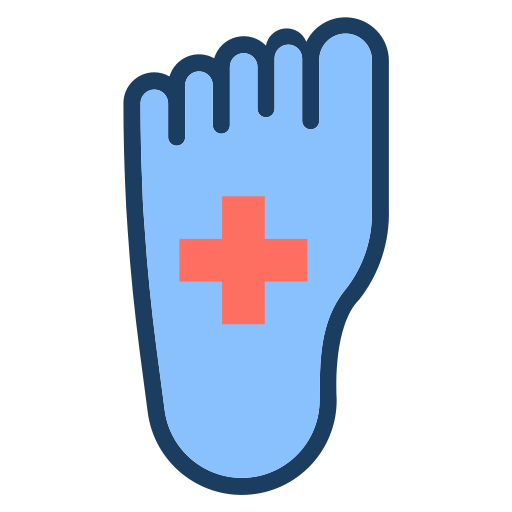
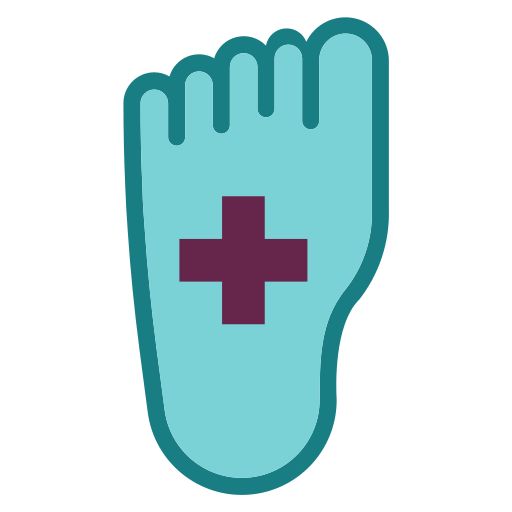
UI updates

diff --git a/docs/index.html b/docs/index.html
@@ -2,10 +2,10 @@
 <html lang="en">
   <head>
     <title>Recovery Path</title>
-    <link rel="manifest" href="/manifest.json">
-    <meta name="viewport" content="width=device-width, initial-scale=1.0">
+    <link rel="manifest" href="/manifest.json" />
+    <meta name="viewport" content="width=device-width, initial-scale=1.0" />
 
-    <meta name="theme-color" content="#1a3d60"/>
+    <meta name="theme-color" content="#1a3d60" />
 
     <link rel="icon" href="./footprint.svg" type="image/svg+xml" />
     <link rel="stylesheet" type="text/css" href="index.css" />
@@ -18,62 +18,65 @@
   </head>
 
   <body>
-
     <h1>Recovery Path</h1>
 
     <div class="inputs">
       <div class="input">
         <h2>Previous</h2>
-        <label for="length1" class="length">
-          Length (cm)
-          <input name="length1" type="number" pattern="[0-9]*" inputmode="decimal" id="length1" oninput="calculate()" />
-        </label>
+        <label for="length1-label" class="length-label">Length (cm)</label>
+        <input
+          class="length"
+          name="length1"
+          type="number"
+          pattern="[0-9]*"
+          inputmode="decimal"
+          id="length1"
+          oninput="calculate()"
+        />
 
         <span class="x">&#10005;</span>
-        <label for="width1" class="width">
-          Width (cm)
-          <input
-            name="width1"
-            type="number"
-            pattern="[0-9]*"
-            inputmode="decimal"
-            id="width1"
-            class="width"
-            oninput="calculate()"
-          />
-        </label>
-        <hr />
-        <p id="area1" class="area">cm&sup2;</p>
+        <label for="width1-label" class="width-label">Width (cm)</label>
+        <input class="width" type="number" pattern="[0-9]*" inputmode="decimal" id="width1" oninput="calculate()" />
+
+        <span class="equals">=</span>
+        <label class="area-label">Area (cm&sup1;)</label>
+        <p class="area" id="area1"></p>
       </div>
 
       <div class="input">
         <h2>Current</h2>
-        <label for="length2" class="length">
-          Length (cm)
-          <input name="length2" type="number" pattern="[0-9]*" inputmode="decimal" id="length2" oninput="calculate()" />
-        </label>
+        <label for="length2-label" class="length-label">Length (cm)</label>
+        <input
+          class="length"
+          name="length2"
+          type="number"
+          pattern="[0-9]*"
+          inputmode="decimal"
+          id="length2"
+          oninput="calculate()"
+        />
+
         <span class="x">&#10005;</span>
-        <label for="width2" class="width">
-          Width (cm)
-          <input type="number" pattern="[0-9]*" inputmode="decimal" id="width2" oninput="calculate()" />
-        </label>
-        <hr />
-        <p id="area2" class="area">cm&sup2;</p>
+        <label for="width2-label" class="width-label">Width (cm)</label>
+        <input class="width" type="number" pattern="[0-9]*" inputmode="decimal" id="width2" oninput="calculate()" />
+
+        <span class="equals">=</span>
+        <label class="area-label">Area (cm&sup2;)</label>
+        <p class="area" id="area2"></p>
       </div>
     </div>
 
     <div class="results">
       <h3 id="diff-label">Diff</h3>
-      <h3 id="diff-percent-label">Diff %</h3>
       <h3 id="change-label">Change %</h3>
 
       <p class="number" id="diff">cm&sup2;</p>
-      <p class="number" id="diff-percent">%</p>
       <p class="number" id="change">%</p>
 
       <div class="vertical" id="v1"></div>
       <div class="vertical" id="v2"></div>
     </div>
+
     <script src="main.js"></script>
   </body>
 </html>

diff --git a/docs/index.css b/docs/index.css
@@ -1,8 +1,8 @@
 :root {
-    --primary-color: #1a3d60;
-    --secondary-color: #89c1ff;
-    --accent-color: #ff6f61;
-    --background-color: #f5f5f5;
+    --primary-color: #197E83;
+    --secondary-color: #7ad2d6;
+    --accent-color: #66254A;
+    --background-color: #EDE5EF;
     --text-color: #333333;
     --max-width: calc(100vw - 16px);
     width: 100vw;
@@ -43,28 +43,32 @@
   
   .inputs {
     display: flex;
-    justify-content: space-around;
+    flex-direction: column;
     width: var(--max-width);
-    padding: 0 8px;
+  }
+
+  .inputs > *:first-child {
+    margin-top: 8px;
   }
   
   .input {
     display: grid;
     font-family: "Nanum Gothic", sans-serif;
-    grid-template-columns: 1fr 4fr;
-    grid-template-rows: auto auto auto auto auto;
+    grid-template-columns: 100px 16px 100px 16px 100px;
+    grid-template-rows: auto auto auto;
     grid-template-areas:
-      ". title"
-      ". length"
-      "x width"
-      ". line"
-      ". area";
+      "title title title title title"
+      "length-label . width-label . area-label"
+      "length x width equals area";
     flex-direction: column;
     align-items: center;
+    justify-content: space-between;
+    width: 100%;
   }
   
   .input > h2 {
     grid-area: title;
+    margin: 0 0 4px 0;
   }
   
   .input > label {
@@ -73,10 +77,18 @@
     font-weight: 700;
   }
   
+  .input > .length-label {
+    grid-area: length-label;
+  }
+
   .input > .length {
     grid-area: length;
   }
-  
+    
+  .input > .width-label {
+    grid-area: width-label;
+  }
+
   .input > .width {
     grid-area: width;
   }
@@ -85,34 +97,37 @@
     grid-area: x;
     font-size: 16px;
     color: var(--text-color);
-    transform: translate(9px, 9px);
   }
-  
-  .input > hr {
-    grid-area: line;
-    width: 100%;
-    background-color: var(--text-color);
+
+  .input > .equals {
+    grid-area: equals;
+  }
+
+  .input > .area-label {
+    grid-area: area-label;
+    padding: 0 4px;
   }
   
   .input > .area {
     grid-area: area;
-    font-family: "Nanum Gothic", sans-serif;
-    height: 32px;
     padding: 0 4px;
-    border: solid var(--text-color) 2px;
+    font-family: "Nanum Gothic", sans-serif;
     font-size: 16px;
     display: flex;
     align-items: center;
     justify-content: end;
-    margin: 8px 0;
+    padding: 10px;
+    margin: 10px 0;
+    max-width: 100px;
+    border: 1px solid #ccc;
+    box-sizing: border-box;
+    min-height: 40px;
   }
   
   input {
     padding: 10px;
     margin: 10px 0;
-    display: block;
-    width: 100%;
-    max-width: 300px;
+    max-width: 100px;
     border: 1px solid #ccc;
     box-sizing: border-box;
     font-size: 16px;
@@ -120,11 +135,11 @@
   
   .results {
     display: grid;
-    grid-template-columns: 1fr 16px 1fr 16px 1fr;
+    grid-template-columns: 1fr 16px 1fr;
     grid-template-rows: 1fr 1fr;
     grid-template-areas:
-      "diff-label v1 diff-percent-label v2 change-label"
-      "diff       v1 diff-percent       v2 change";
+      "diff-label v1 change-label"
+      "diff       v1 change";
     width: 100%;
     padding: 0 8px 0 8px;
     background-color: var(--accent-color);
@@ -144,12 +159,9 @@
   #diff-percent { grid-area: diff-percent; }
   #change { grid-area: change; }
   
-  .results > h3 {
-      margin: 8px 16px;
-  }
-  
   .results > .number {
       margin: 8px 8px;
+      font-size: 24px;
   }
   
   .vertical {
@@ -161,7 +173,8 @@
     }
   
   .results > h3 {
-    font-size: 18px;
+    margin: 8px 16px;
+    font-size: 24px;
   }
   
   .results > p {

diff --git a/docs/main.js b/docs/main.js
@@ -7,8 +7,9 @@ function calculateArea(index) {
     var width = document.getElementById(`width${index}`).value;
 
     var area = length * width;
-    document.getElementById(`area${index}`).innerHTML =
-      length && width ? +area.toFixed(2) + " cm&sup2;" : "cm&sup2;";
+    const areaString = length && width ? formatNumber(area) : "";
+    console.log('areaString', areaString);
+    document.getElementById(`area${index}`).innerHTML = areaString;
     return area;
   }
 
@@ -18,15 +19,16 @@ window.calculate = function() {
 
     if (area1 && area2) {
       var difference = Math.abs(area1 - area2);
-      var percentageDifference = (Math.abs(area2 - area1) / ((area1 + area2) / 2)) * 100;
       var percentageChange = ((area2 - area1) / area1) * 100;
 
-      document.getElementById("diff").innerHTML = +difference.toFixed(2) + " cm&sup2;";
-      document.getElementById("diff-percent").innerHTML = +percentageDifference.toFixed(2) + "%";
-      document.getElementById("change").innerHTML = +percentageChange.toFixed(2) + "%";
+      document.getElementById("diff").innerHTML = formatNumber(difference) + " cm&sup2;";
+      document.getElementById("change").innerHTML = formatNumber(percentageChange) + "%";
     } else {
       document.getElementById("diff").innerHTML = "cm&sup2;";
-      document.getElementById("diff-percent").innerHTML = "%";
       document.getElementById("change").innerHTML = "%";
     }
   }
+
+function formatNumber(area) {
+  return Number(area).toLocaleString('en', { minimumFractionDigits: 0, maximumFractionDigits: 1 });
+}
